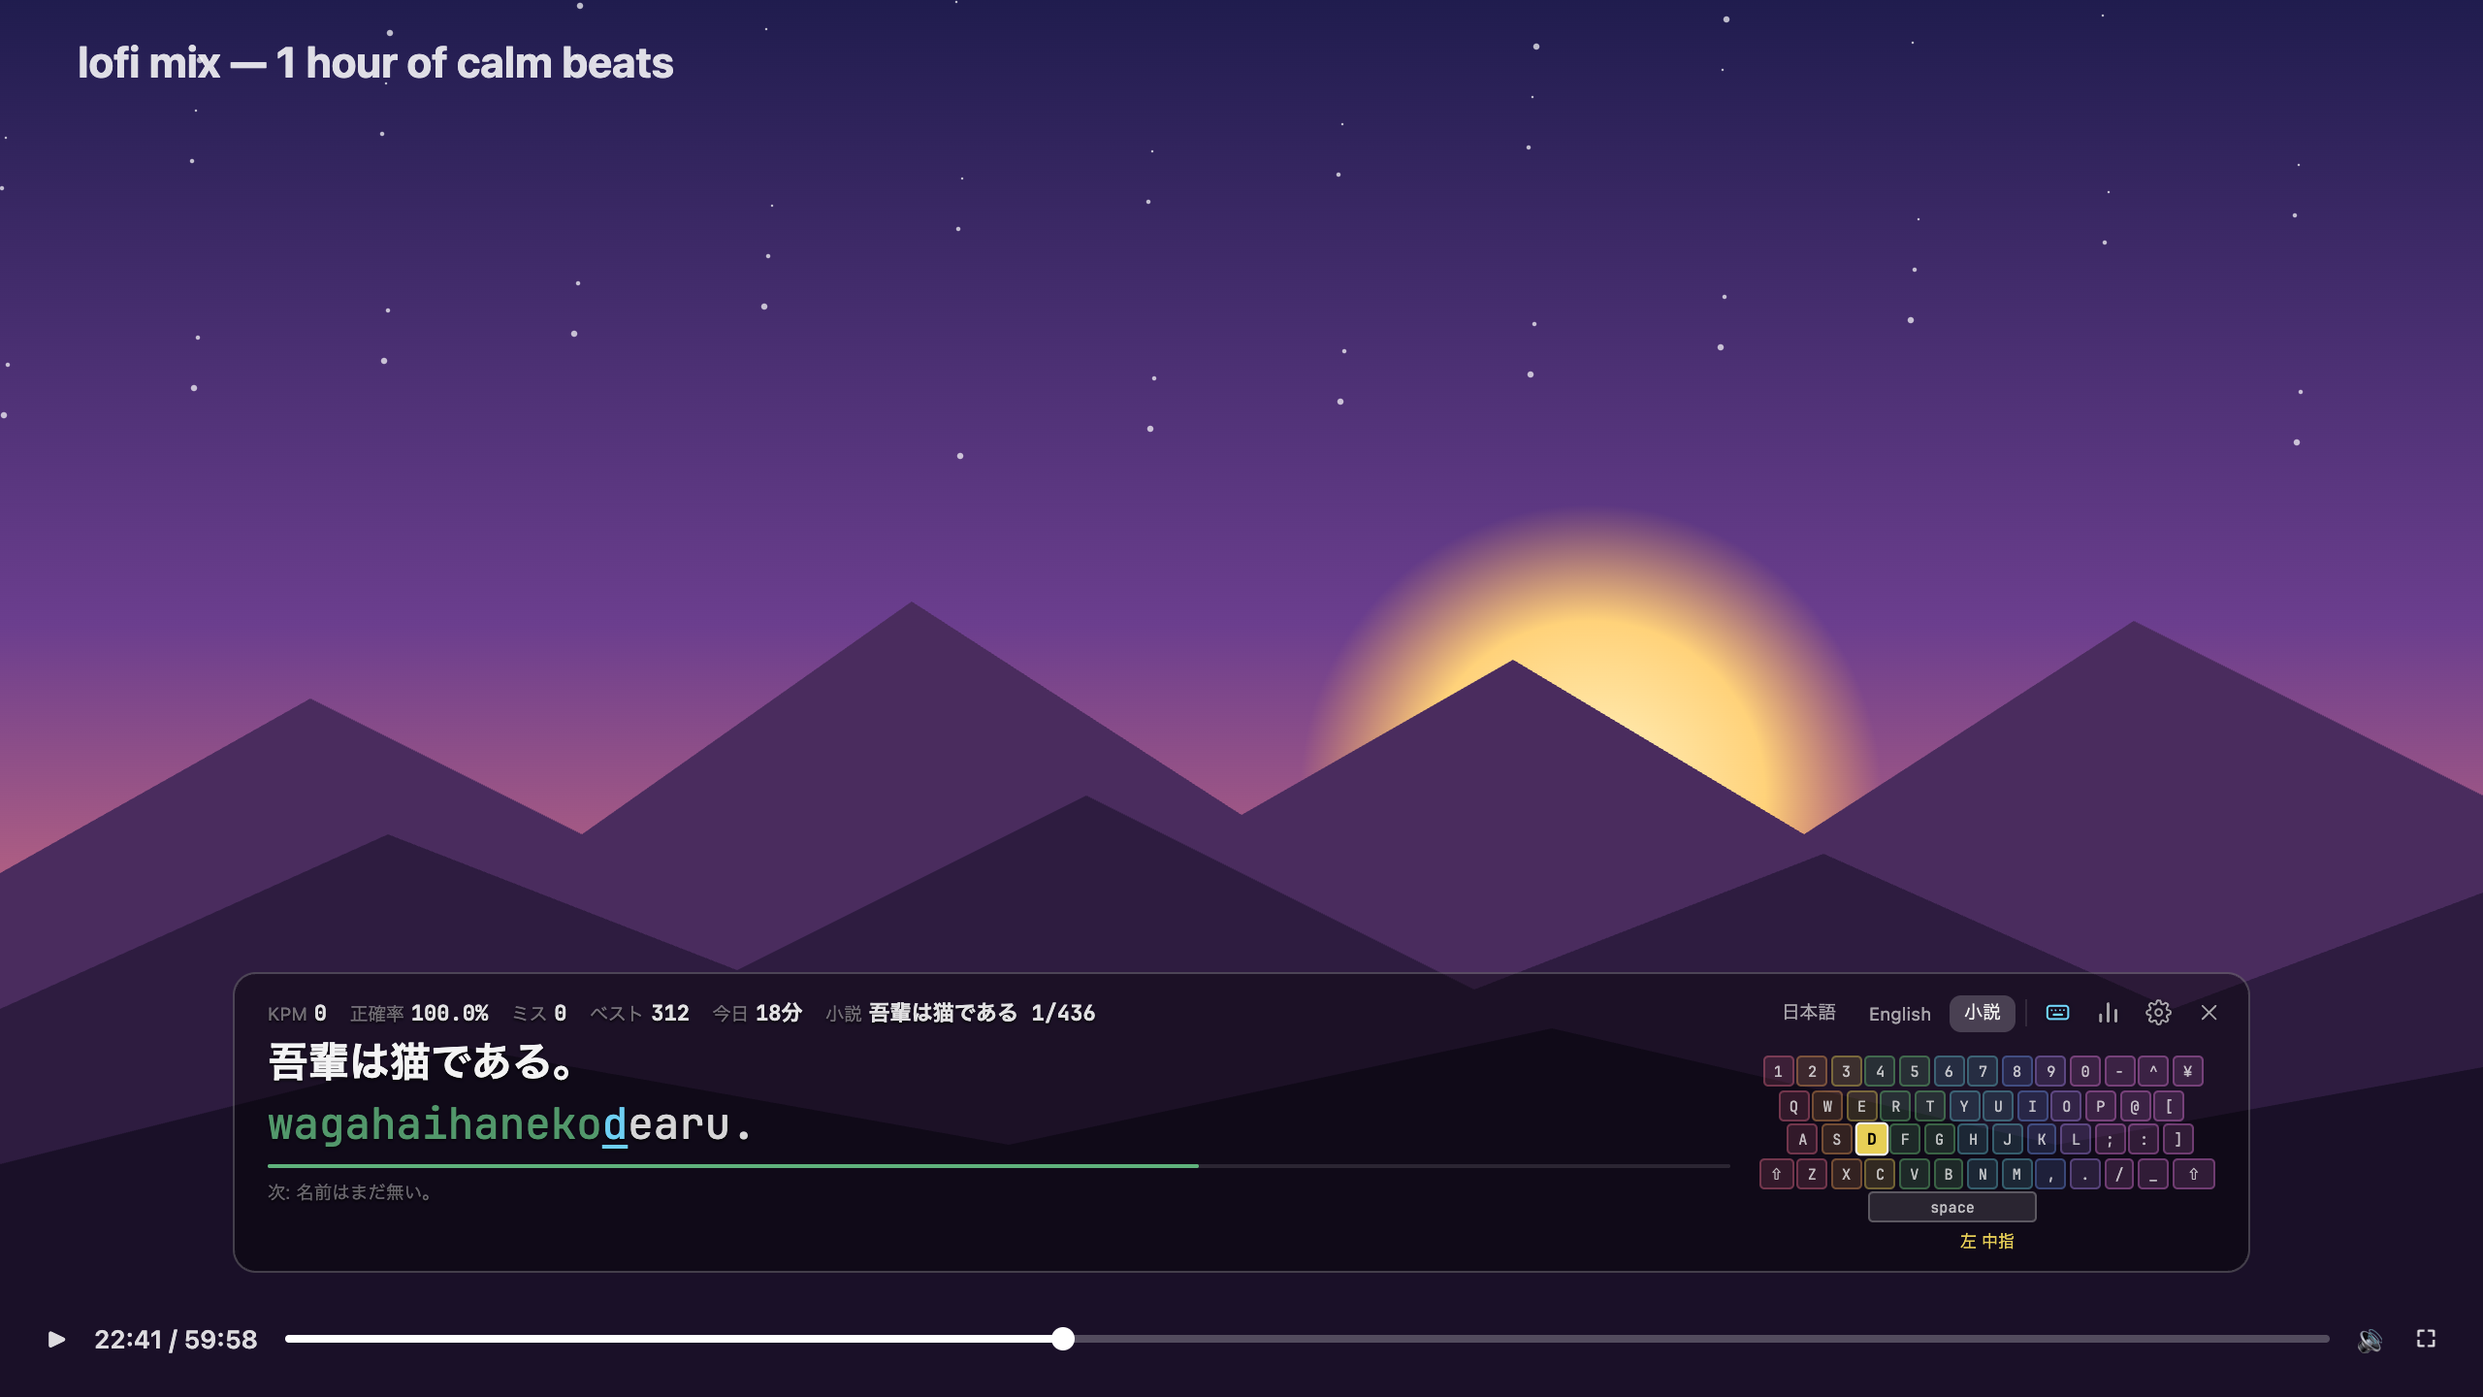
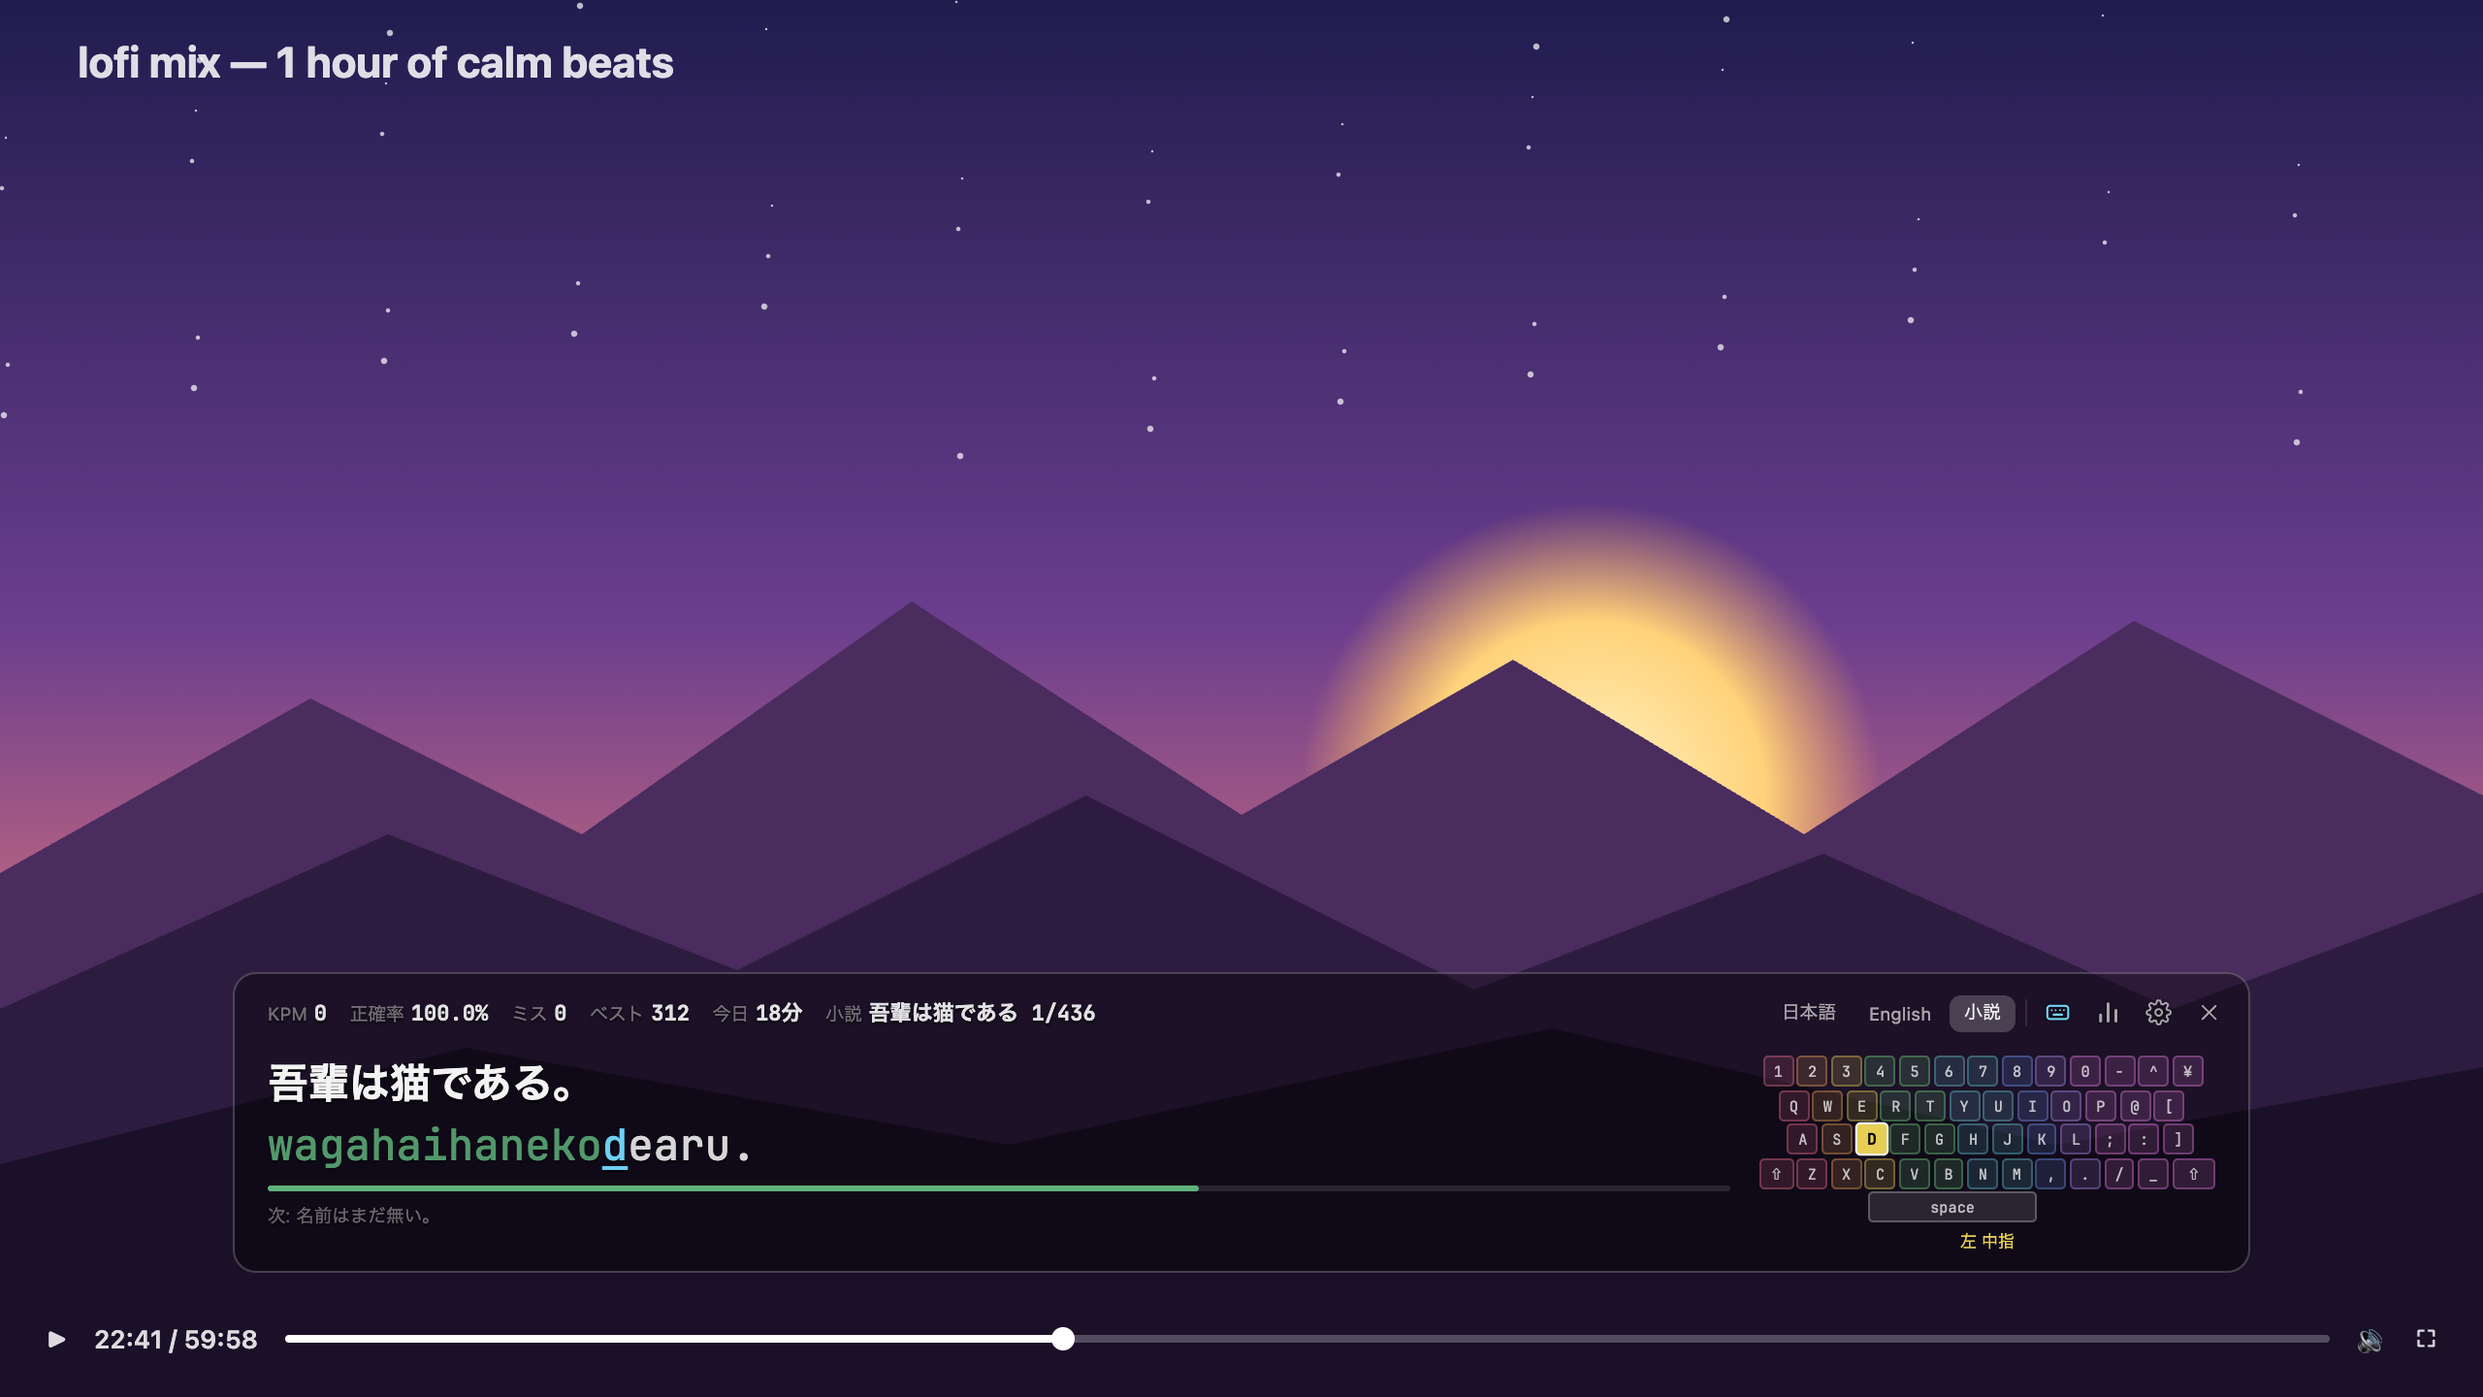
Polish UI details across bar, settings and analytics
- Analytics: consistent gaps between cards, aligned tile values,
  equal-height paired cards, tighter ranking columns, sticky table
  header, consistent "ms" spacing
- Settings: units on slider values, aligned checkboxes, shorter novel
  picker, shortcut list as a key/description table
- Bar: balance the text block against the keyboard guide, red hover
  on quit, icon-based pause hint

Changed region(s): [[0.0938, 0.75, 0.6875, 0.875]]

diff --git a/src/js/settings.js b/src/js/settings.js
@@ -39,17 +39,18 @@ function toggle(key, label) {
   return `<label class="line"><input type="checkbox" id="${id}" ${store.get(key) ? "checked" : ""}> ${label}</label>`;
 }
 
-const pct = (v) => `${Math.round(v * 100)}`;
+const pct = (v) => `${Math.round(v * 100)}%`;
+const px = (v) => `${v}px`;
 
 function novelLine() {
   const cur = NOVELS.find((n) => n.id === store.get("novelId")) || NOVELS[0];
   const pos = (store.get("novelPos") || {})[cur.id] || 0;
   const opts = NOVELS.map((n) => {
     const p = (store.get("novelPos") || {})[n.id] || 0;
-    return `<option value="${n.id}" ${n.id === cur.id ? "selected" : ""}>${n.title}（${n.author}）${n.scope} — ${p ? `${p + 1}/` : ""}${n.lines.length} 行</option>`;
+    return `<option value="${n.id}" ${n.id === cur.id ? "selected" : ""}>${n.title}</option>`;
   }).join("");
   return `<div class="line"><label>小説</label><select id="n-sel">${opts}</select><button id="n-restart">最初から</button></div>` +
-    `<div class="note">小説モードでは1文ずつ順番に進み、続きは自動で保存されます（いま ${pos + 1} 行目）。本文は青空文庫より。読みがなは自動で付けたもので、まれに誤りがあります。</div>`;
+    `<div class="note">${cur.author}『${cur.title}』${cur.scope.replace(/[（）]/g, " ").trimEnd()} — 全 ${cur.lines.length} 行のうち ${pos + 1} 行目。1文ずつ順番に進み、続きは自動で保存されます。本文は青空文庫より。読みがなは自動で付けたもので、まれに誤りがあります。</div>`;
 }
 
 function render() {
@@ -57,9 +58,9 @@ function render() {
     `<div class="line"><label>フォント</label>${seg("fontTheme", LABELS.fontTheme)}</div>` +
     `<div class="line"><label>現在位置の表示</label>${seg("cursorStyle", LABELS.cursorStyle)}</div>` +
     range("uiScale", "全体の大きさ", 0.6, 1.3, 0.05, pct) +
-    range("fontSize", "文字サイズ", 16, 56, 1) +
+    range("fontSize", "文字サイズ", 16, 56, 1, px) +
     range("bgOpacity", "背景の濃さ", 0, 0.95, 0.01, pct) +
-    range("textOpacity", "全体の濃さ", 0.2, 1, 0.01, pct) +
+    range("textOpacity", "文字の濃さ", 0.2, 1, 0.01, pct) +
     toggle("dimWhenIdle", "タイピングしていない間は薄くする") +
     toggle("compact", "コンパクト表示（統計と次の文を隠す）");
 
@@ -103,10 +104,18 @@ function render() {
   };
 
   const m = isMac ? "⌘" : "Ctrl+";
-  $("keys").textContent =
-    `Ctrl+Alt+T   タイピング ⇄ ブラウザのフォーカス切替\nEsc  行の最初から / Tab  スキップ\n` +
-    `${m}1 ${m}2 ${m}3 ${m}4   日本語 / English / 小説 / カスタム\n${m},  設定 / ${m}S  統計・分析 / ${m}K  コンパクト表示 / ${m}G  キーボードガイド\n` +
-    `${m}V  クリップボード / ${m}O  ファイル\n${m}W  隠す / ${m}Q  終了\n右クリックでメニュー`;
+  const k = (...keys) => keys.map((x) => `<kbd>${x}</kbd>`).join("");
+  const rowsK = [
+    [k("Ctrl+Alt+T"), "タイピング ⇄ ブラウザを切り替え"],
+    [k("Esc"), "行の最初から"], [k("Tab"), "スキップ"],
+    [k(`${m}1`, `${m}2`, `${m}3`, `${m}4`), "日本語 / English / 小説 / カスタム"],
+    [k(`${m},`), "設定"], [k(`${m}S`), "統計・分析"],
+    [k(`${m}K`), "コンパクト表示"], [k(`${m}G`), "キーボードガイド"],
+    [k(`${m}V`), "クリップボードの文章で練習"], [k(`${m}O`), "テキストファイルで練習"],
+    [k(`${m}W`), "隠す"], [k(`${m}Q`), "終了"],
+    ["右クリック", "メニュー"],
+  ];
+  $("keys").innerHTML = rowsK.map(([a, b]) => `<div class="kk">${a}</div><div>${b}</div>`).join("");
 }
 
 store.subscribe((k) => { if (!document.activeElement || document.activeElement.type !== "range") render(); });

diff --git a/src/css/analytics.css b/src/css/analytics.css
@@ -1,10 +1,11 @@
 .wrap { padding: 20px; display: flex; flex-direction: column; gap: 14px; }
+#content { display: flex; flex-direction: column; gap: 14px; }
 .toolbar { display: flex; align-items: center; gap: 12px; }
 .spacer { flex: 1; }
-.grid2 { display: grid; grid-template-columns: 1fr 1fr; gap: 14px; align-items: start; }
+.grid2 { display: grid; grid-template-columns: 1fr 1fr; gap: 14px; align-items: stretch; }
 .tiles { display: grid; grid-template-columns: repeat(6, 1fr); gap: 14px; }
 .tile .t { font-size: 11px; color: var(--ink2); }
-.tile .v { font-size: 24px; font-weight: 700; font-variant-numeric: tabular-nums; margin: 4px 0; white-space: nowrap; }
+.tile .v { font-size: 24px; font-weight: 700; font-variant-numeric: tabular-nums; line-height: 32px; height: 32px; margin: 4px 0 2px; white-space: nowrap; }
 .tile .n { font-size: 10px; color: var(--muted); white-space: nowrap; overflow: hidden; }
 .tile .n .d { color: var(--ink2); font-variant-numeric: tabular-nums; }
 .up { color: var(--good); } .down { color: var(--bad); }
@@ -18,7 +19,7 @@
 .tip div { white-space: nowrap; overflow: hidden; text-overflow: ellipsis; font-size: 12px; }
 .tip div:first-child { font-size: 10px; color: var(--ink2); }
 .tip div:nth-child(2) { font-weight: 600; }
-.rank { display: grid; grid-template-columns: minmax(90px, auto) 1fr auto auto; gap: 7px 10px; align-items: center; }
+.rank { display: grid; grid-template-columns: minmax(56px, max-content) 1fr auto auto; gap: 8px 14px; align-items: center; }
 .rank .l { font: 500 12px var(--font-mono); display: flex; align-items: center; gap: 6px; }
 .rank .sw { width: 8px; height: 8px; border-radius: 50%; display: inline-block; }
 .rank .b { height: 6px; background: var(--grid); border-radius: 3px; overflow: hidden; }
@@ -37,7 +38,7 @@
 .legend .na { display: flex; gap: 4px; align-items: center; font-size: 10px; color: var(--muted); }
 .legend .na span { width: 10px; height: 10px; background: var(--grid); border-radius: 2px; display: inline-block; }
 table { width: 100%; border-collapse: collapse; font-size: 12px; }
-th { text-align: left; color: var(--ink2); font-weight: 500; font-size: 11px; padding: 6px 8px; border-bottom: 1px solid var(--baseline); }
+th { text-align: left; color: var(--ink2); font-weight: 500; font-size: 11px; padding: 6px 8px; border-bottom: 1px solid var(--baseline); position: sticky; top: 0; background: var(--surface); }
 td { padding: 5px 8px; border-bottom: 1px solid var(--grid); font-variant-numeric: tabular-nums; white-space: nowrap; }
 td.txt { white-space: nowrap; overflow: hidden; text-overflow: ellipsis; max-width: 380px; }
 .scroll { max-height: 300px; overflow: auto; }

diff --git a/src/css/bar.css b/src/css/bar.css
@@ -36,7 +36,11 @@ body { display: flex; flex-direction: column; justify-content: flex-end; height:
 .card.compact { padding-top: 8px; padding-bottom: 8px; }
 
 .row { display: flex; gap: 18px; align-items: flex-start; opacity: var(--text-opacity); }
-.col { flex: 1; min-width: 0; display: flex; flex-direction: column; gap: 5px; text-shadow: 0 1px 1.5px rgba(0, 0, 0, 0.75); }
+.col { flex: 1; min-width: 0; align-self: stretch; display: flex; flex-direction: column; gap: 5px; text-shadow: 0 1px 1.5px rgba(0, 0, 0, 0.75); }
+/* キーボードの方が背が高いとき、統計の下の本文を残りの高さの中央に置く */
+.stats { margin-bottom: auto; }
+.col::after { content: ""; margin-top: auto; margin-bottom: -5px; }
+.card.compact .col::before { content: ""; margin-bottom: auto; margin-top: -5px; }
 
 .stats { display: flex; gap: 14px; height: 22px; align-items: center; white-space: nowrap; overflow: hidden; }
 .stat .k { font-size: 11px; color: var(--muted); margin-right: 4px; }
@@ -58,6 +62,7 @@ body { display: flex; flex-direction: column; justify-content: flex-end; height:
 .next { font-family: var(--jp); font-size: calc(var(--fs) * 0.42); color: rgba(255, 255, 255, 0.4); white-space: nowrap; overflow: hidden; text-overflow: ellipsis; }
 .hint { font-size: 11px; color: rgba(255, 255, 255, 0.6); display: flex; gap: 8px; align-items: center; }
 .hint:empty { display: none; }
+.hint .ico { width: 12px; height: 12px; }
 .hint button { font-size: 11px; padding: 1px 10px; border-radius: var(--r-pill); }
 
 /* キーボードガイド */
@@ -85,6 +90,7 @@ body { display: flex; flex-direction: column; justify-content: flex-end; height:
 .controls .seg { border: 0; background: none; padding: 0; }
 .controls .seg button { font-size: 11px; padding: 3px 9px; }
 .controls button.icon.on { color: var(--accent); }
+.controls #btn-hide:hover { color: var(--bad); }
 /* キーボードを畳んだときは統計が操作ボタンの下に潜らないようにする */
 .card.nokbd .stats { margin-right: 300px; }
 .controls .sep { width: 1px; height: 16px; background: var(--line); margin: 0 2px; }

diff --git a/src/settings.html b/src/settings.html
@@ -12,12 +12,15 @@
     .card { display: flex; flex-direction: column; gap: 12px; }
     .line { display: flex; align-items: center; gap: 10px; min-height: 26px; }
     .line > label:first-child { width: 120px; flex: none; color: var(--ink); }
-    .line input[type=range] { flex: 1; }
-    .val { width: 34px; text-align: right; color: var(--ink2); font-variant-numeric: tabular-nums; }
+    .line input[type=range] { flex: 1; margin: 0; }
+    .line input[type=checkbox] { margin: 0 3px 0 1px; }
+    .val { width: 44px; text-align: right; color: var(--ink2); font-variant-numeric: tabular-nums; }
     .note { font-size: 11px; color: var(--muted); line-height: 1.5; }
     .kv { display: flex; justify-content: space-between; color: var(--ink2); }
     .kv b { color: var(--ink); font-weight: 700; font-variant-numeric: tabular-nums; }
-    pre { margin: 0; font: 11px/1.7 var(--font-mono); color: var(--ink2); white-space: pre-wrap; }
+    #keys { display: grid; grid-template-columns: max-content 1fr; gap: 8px 14px; align-items: center; color: var(--ink2); }
+    #keys .kk { display: flex; gap: 4px; color: var(--ink2); font-size: 12px; }
+    kbd { font: 600 11px var(--font-mono); color: var(--ink); background: var(--fill); border: 1px solid var(--line); border-bottom-width: 2px; border-radius: 5px; padding: 1px 6px; }
     .btns { display: flex; gap: 8px; flex-wrap: wrap; }
     #n-sel { flex: 1; min-width: 0; }
   </style>
@@ -28,6 +31,6 @@
   <section><h2>練習</h2><div class="card" id="practice"></div></section>
   <section><h2>サウンド</h2><div class="card" id="sound"></div></section>
   <section><h2>記録</h2><div class="card" id="records"></div></section>
-  <section><h2>ショートカット</h2><div class="card"><pre id="keys"></pre></div></section>
+  <section><h2>ショートカット</h2><div class="card"><div id="keys"></div></div></section>
 </body>
 </html>

diff --git a/src/js/analytics-view.js b/src/js/analytics-view.js
@@ -186,7 +186,7 @@ function render() {
   const fingerRows = agg.map((s, i) => ({
     label: FINGER_NAMES[i], swatch: FINGER_COLORS[i], fraction: stat.missRate(s) / maxF,
     value: stat.attempts(s) ? `${(stat.missRate(s) * 100).toFixed(1)}%` : "–",
-    detail: stat.avgMs(s) != null ? `${stat.avgMs(s).toFixed(0)}ms` : "",
+    detail: stat.avgMs(s) != null ? `${stat.avgMs(s).toFixed(0)} ms` : "",
   }));
   html += `<div class="grid2">` + card("日別の正確率", "正しく打った数 ÷ 全打鍵", `<div class="chart" id="c-dacc"></div>`) +
     rankCard("指ごとのミス率", "右の数字は平均打鍵間隔（全期間）", fingerRows) + `</div>`;
@@ -269,7 +269,7 @@ function heatmap(layout) {
   const fmt = (v) => (heat === "miss" ? `${v.toFixed(0)}%` : v.toFixed(0));
   const cell = (label, s, w) => {
     const v = metric(s), t = v == null ? null : norm(v);
-    const title = `${label === "space" ? "スペース" : label}  打鍵 ${s.hits} / ミス ${s.misses} (${(stat.missRate(s) * 100).toFixed(1)}%)` + (stat.avgMs(s) != null ? `  平均 ${stat.avgMs(s).toFixed(0)}ms` : "");
+    const title = `${label === "space" ? "スペース" : label}  打鍵 ${s.hits} / ミス ${s.misses} (${(stat.missRate(s) * 100).toFixed(1)}%)` + (stat.avgMs(s) != null ? `  平均 ${stat.avgMs(s).toFixed(0)} ms` : "");
     return `<div class="k" title="${esc(title)}" style="width:${w}px;background:${t == null ? C.grid : rampColor(t)};color:${t == null ? C.muted : rampInk(t)}"><b>${esc(label)}</b><i>${v == null ? "–" : fmt(v)}</i></div>`;
   };
   const indent = [0, 0.5, 0.8, 1.3];

diff --git a/src/js/bar.js b/src/js/bar.js
@@ -119,7 +119,7 @@ function render() {
     hint.innerHTML = `<span>Ctrl+Alt+T でブラウザ ⇄ タイピング切替　右クリックでメニュー　${mod}, で設定</span><button id="tips-ok">OK</button>`;
     $("tips-ok").onclick = () => store.set("seenTips", true);
   } else if (!focused) {
-    hint.innerHTML = `<span>⏸ 一時停止中 — クリック or Ctrl+Alt+T で再開</span>`;
+    hint.innerHTML = `<svg class="ico" viewBox="0 0 24 24" aria-hidden="true"><path d="M9 6v12M15 6v12" stroke-width="3"/></svg><span>一時停止中 — クリックか Ctrl+Alt+T で再開</span>`;
   } else hint.innerHTML = "";
 
   $("modes").innerHTML = Object.entries(LABELS.mode)
